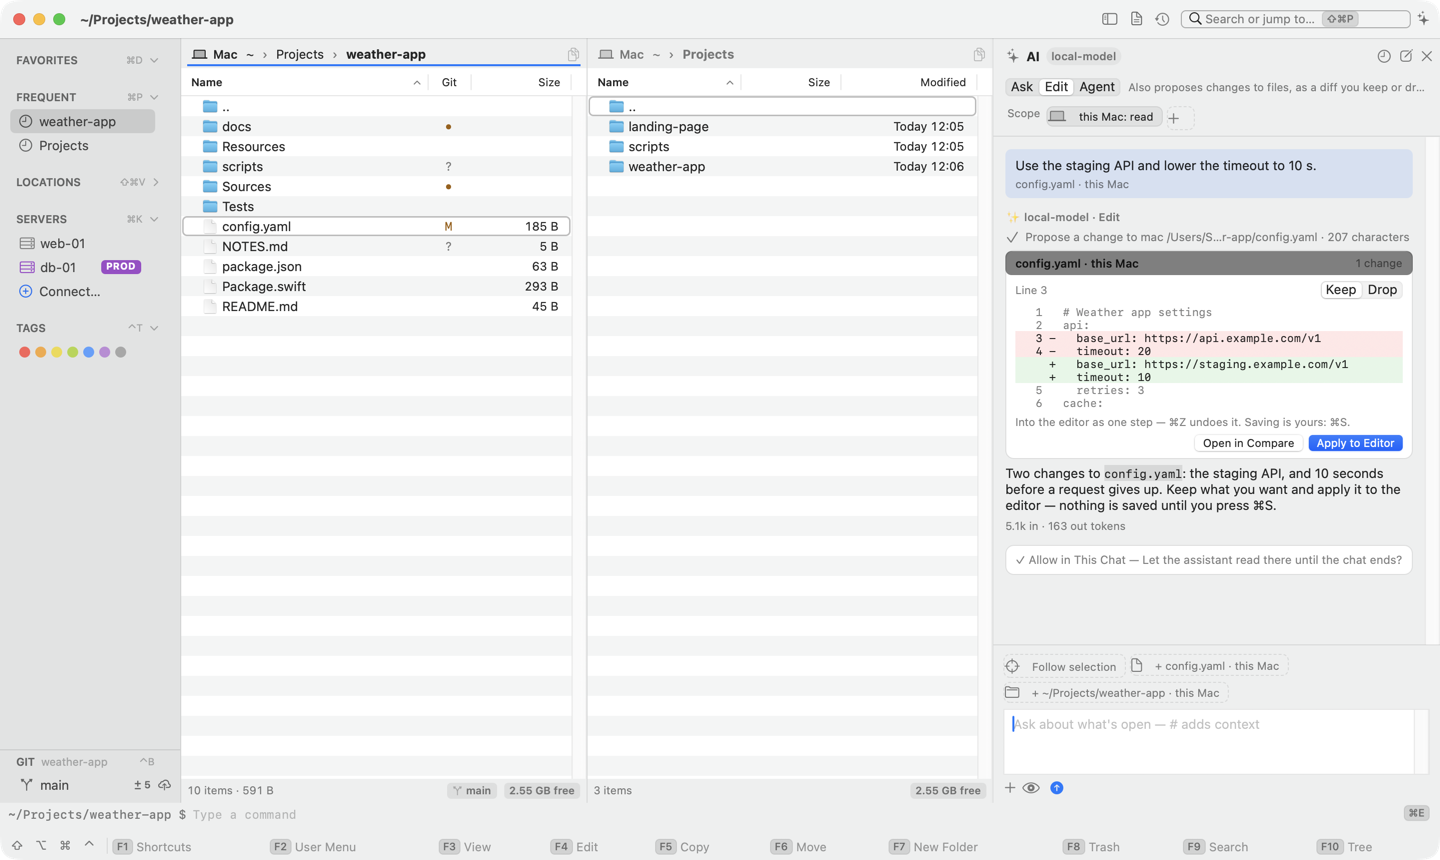
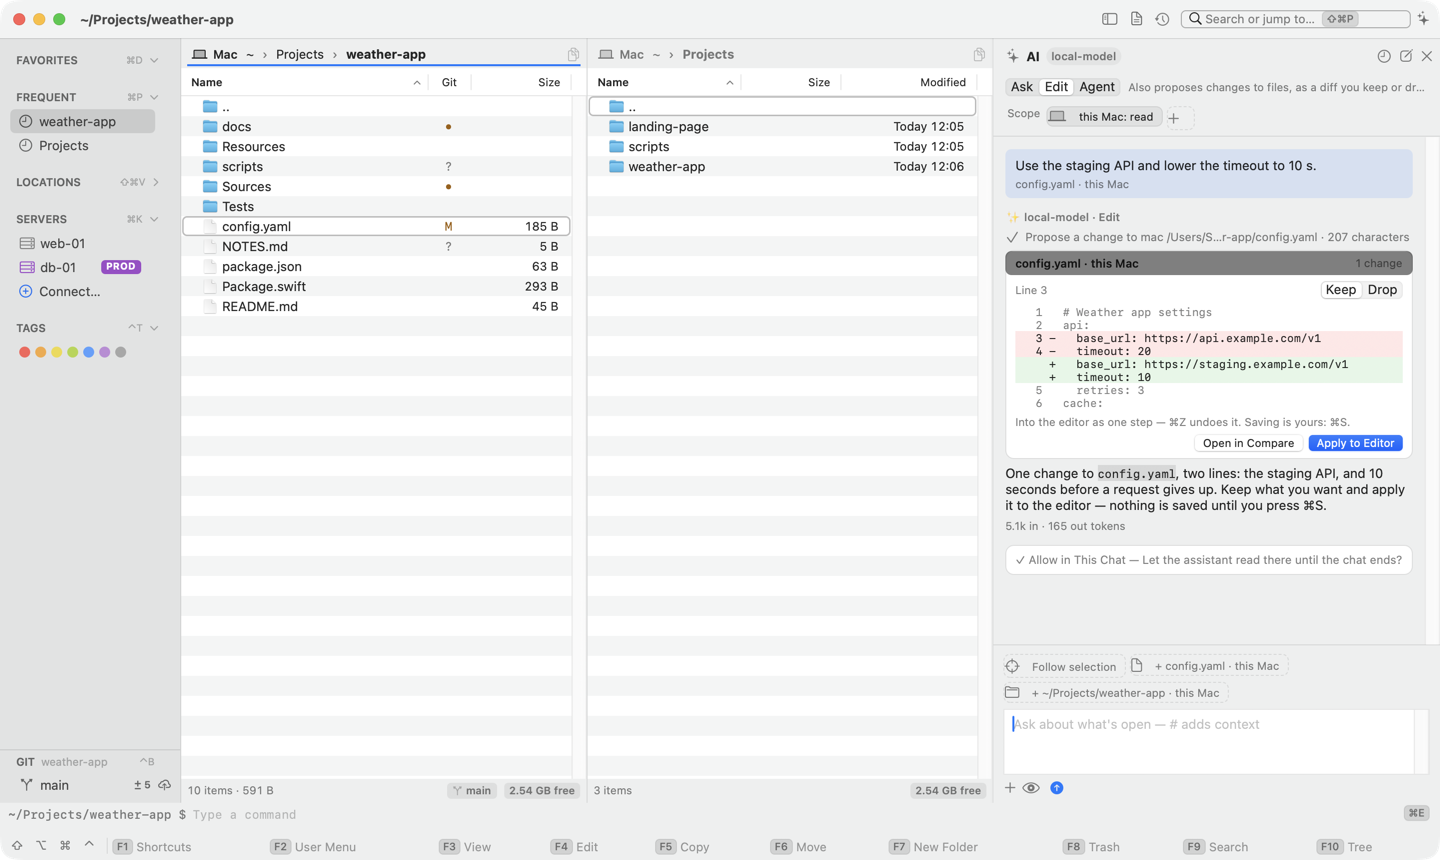
AI: the second reading's fixes — Settings says a key over plain http sends nothing, a turn stops at its 10th request in the app's words too, only a fixed choice's default goes unnamed, the masked-name test checks the mask; the Edit shot's words match its card

Changed region(s): [[0.6875, 0.5442, 0.9688, 0.6047]]

diff --git a/Tests/DFileManagerTests/Task23ToolsTests.swift b/Tests/DFileManagerTests/Task23ToolsTests.swift
@@ -264,7 +264,7 @@ extension ServerLockTests {   // swap `ServerLock.servers` and `authenticate`
         try FileManager.default.createDirectory(atPath: dir + "/sub", withIntermediateDirectories: true)
         try Data(("pass" + "word: hunter22\nname: web\n").utf8).write(to: URL(fileURLWithPath: dir + "/app.conf"))
         try Data([0xff, 0xfe, 0x00, 0x80]).write(to: URL(fileURLWithPath: dir + "/blob"))
-        FileManager.default.createFile(atPath: dir + "/DB_PASS" + "WORD=hunter22", contents: nil)   // a name the model reads masked, as the chip does
+        #expect(FileManager.default.createFile(atPath: dir + "/DB_PASS" + "WORD=hunter22", contents: nil))   // a name the model reads masked, as the chip does
         try Data(("a" + String(repeating: "é", count: AISession.textLimit)).utf8).write(to: URL(fileURLWithPath: dir + "/long.txt"))   // the cut falls inside an é
         // The FIFO in a folder no panel shows: a panel's own look at its folder isn't this test's.
         let aside = dir + "-aside"
@@ -277,7 +277,7 @@ extension ServerLockTests {   // swap `ServerLock.servers` and `authenticate`
         for server in ["mac", box] {   // this Mac first: reading it marks nothing
             answer([0])
             r = await s.call("list_folder", ["server": .string(server), "path": .string(dir)])
-            #expect(!r.isError && r.text.contains("app.conf\t29\t") && r.text.contains("sub/\t\t") && !r.text.contains("hunter22"), "\(server): \(r.text)")
+            #expect(!r.isError && r.text.contains("app.conf\t29\t") && r.text.contains("sub/\t\t") && !r.text.contains("hunter22") && r.text.contains("DB_PASS" + "WORD=•••"), "\(server): \(r.text)")
             r = await s.call("read_file", ["server": .string(server), "path": .string(dir + "/app.conf")])
             #expect(!r.isError && r.text.contains("name: web") && !r.text.contains("hunter22") && r.text.contains("1 secret hidden"), "\(server): \(r.text)")
             r = await s.call("read_file", ["server": .string(server), "path": .string(dir + "/long.txt")])

diff --git a/Sources/DFileManager/AISettings.swift b/Sources/DFileManager/AISettings.swift
@@ -59,8 +59,10 @@ enum AISettings {
         if a.scheme == "http" && !AIEndpoint.isLocal(a) {
             // macOS (App Transport Security) refuses plain http to a name; an address in numbers it lets through.
             let numbers = (a.host ?? "").contains(":") || (a.host ?? "").split(separator: ".").allSatisfy { Int($0) != nil }
-            said.append(numbers ? "Plain http: the chat goes unencrypted and your key never goes there"
-                        : "Plain http: macOS doesn't let Kermo reach a name on the internet that way — use https")
+            // With a key there the chat sends nothing (`AIEndpoint.problem`): the key never goes unencrypted.
+            said.append(!numbers ? "Plain http: macOS doesn't let Kermo reach a name on the internet that way — use https"
+                        : keys.has(a) ? "Plain http: with a key for it the chat sends nothing there — use https, or remove the key"
+                        : "Plain http: the chat goes unencrypted")
         }
         return said.joined(separator: ". ")
     }

diff --git a/Sources/DFileManager/AIAnswer.swift b/Sources/DFileManager/AIAnswer.swift
@@ -140,7 +140,7 @@ final class Answer: NSStackView {
         case .model(.maxTokens): "The answer reached its length limit."
         case .model(.refused(let why)): "The model declined to answer" + (why.map { " (\($0))" } ?? "") + "."
         case .model(.other(let why)): "The answer ended: \(why)."
-        case .rounds: "Kermo stopped after \(rounds) rounds of tools. Say “go on” to let it continue."
+        case .rounds: "Kermo stopped this turn at its \(rounds)th request to the model. Say “go on” to let it continue."
         case .spent: "Stopped at this chat's spending cap (Settings › AI); the chat is as it was. Your next message asks again."
         }
         if let said { add(Self.noteRow(said, error: false, action: nil)) }

diff --git a/Sources/DFMCore/AI/AIChat.swift b/Sources/DFMCore/AI/AIChat.swift
@@ -68,7 +68,7 @@ public final class AIChat {
             for c in message.calls {
                 let result: AIResult
                 if Task.isCancelled { result = .failure("Stopped by the user. Nothing was done.") }
-                else if round >= rounds { result = .failure("Kermo stops a turn after \(rounds) rounds of tools. Nothing was run.") }
+                else if round >= rounds { result = .failure("Kermo stops a turn at its \(rounds)th request to the model. Nothing was run.") }
                 else if !tools.contains(where: { $0.name == c.name }) { result = .failure("There is no tool “\(c.name)” in this chat. Nothing was run.") }
                 else if let args = c.args {
                     show(.calling(c))

diff --git a/Tests/DFileManagerTests/Task23ProviderSettingsTests.swift b/Tests/DFileManagerTests/Task23ProviderSettingsTests.swift
@@ -122,6 +122,11 @@ extension ServerLockTests {
         std.set("gw.example.com", forKey: "aiAddress")
         AISettings.saveKey(std, key)
         #expect(AISettings.tested == "Not an address — the key wasn't saved.")
+        // Plain http to a public address in numbers: unencrypted without a key; with one, the chat sends nothing there.
+        std.set("http://203.0.113.5/v1", forKey: "aiAddress")
+        #expect(AISettings.addressNote(std) == "Plain http: the chat goes unencrypted")
+        _ = AISettings.keys.set(key, for: try #require(URL(string: "http://203.0.113.5/v1")))
+        #expect(AISettings.addressNote(std).contains("the chat sends nothing there"), "\(AISettings.addressNote(std))")
     }
 }
 

diff --git a/docs/ai.md b/docs/ai.md
@@ -88,14 +88,14 @@ In **Agent** the model does the task: runs commands on servers, copies files and
 
 1. **A plan and one question.** For a task of several steps Kermo has the model first show its plan — a card of steps that tick themselves off (○ to do, ▸ now, ✓ done) — and asks once for everything it needs, up to five lines: a card **Allow the assistant this, until the chat ends?** with a line for each, whole and in Kermo's words ("web-01: run commands", "this Mac: write into /Users/you/Downloads"), and, quoted on a line of its own, what the model says it's for. **Allow for This Task** gives all of it; **Cancel** (↩) gives nothing, and nothing is done. What the chat has already isn't asked again.
 2. **The steps go without a question** — inside what you allowed. What lies outside asks again, with the same card: never a silent no, never a silent yes.
-3. **Asked every time, whatever you allowed:** deleting, writing over a file that is there, a Tools action that always asks, and any change on a [production server](#production-servers) — each with **Allow Once** ([What asks every time](#what-asks-every-time)).
+3. **Asked every time, whatever you allowed:** a command Kermo recognises as deleting, writing over a file that is there, a Tools action that always asks, and any change on a [production server](#production-servers) — each with **Allow Once** ([What asks every time](#what-asks-every-time)).
 4. **A file open in the editor** isn't written by the model: it proposes the change as a [diff card](#edit-a-change-as-a-diff), and your ⌘S saves. On a server Kermo knows the tab by its path as you opened it: a tab opened through a link there isn't recognised — writing over that file still asks, and the tab's save checks again.
 
 ![Agent: the plan ticked off, the steps it took on web-01, its answer with Save as Tool…, and the Scope row's web-01: write into /home/deploy, run commands](images/ai-agent.png)
 
 **The Scope row.** Click a place to set its level — **View** (reads), **Work** (writes into the folders it was given and, on a server, runs commands), **All** (anything there) — or **Take Back**: the next call there asks again. This Mac never runs the model's commands, so its Work is only the folders a task was given. **+** gives a server View yourself before the model asks; this Mac and a production server ask all the same, as their first read would (under **Never Send** production isn't offered), and so does All on this Mac. In Ask and Edit the row offers View only. Everything in it lasts until the chat ends; a New Chat starts from nothing.
 
-**Tools actions.** On a server the model uses your [Tools](tools.md) there before a command of its own: `tools` lists the tools in use on that server — each one's actions, which change something, which ask every time, the values they take — and, for one tool, the rows of its list, read as the Tools window reads them (what the tool runs by itself, as root where it says so); `tool_action` runs an action as its button does. A built-in tool's look (Status in Full, Server Info's Disks) counts as reading, in Ask too; any other action — and every action of a tool of your own, whatever its file says — counts as a command: it needs commands allowed there. One that always asks from its button (Delete Rule…, Stop…) asks every time, under All too, with the command as it will run, as root or not, and the row; on a production server every change asks. An action on a row names the row by its key: Kermo reads the list again and takes the row as it is now. Its values are checked as its sheet checks them — a choice must be one of its choices, and named unless it has a default of its own: Kermo doesn't pick a server's first one for the model. Not the model's to run, it says so and leaves them to you: what runs on this Mac (Who Is It?), what opens something for you (a window that follows, a list one level down, a terminal, a file in the editor, a place in Kermo), long jobs, and an action that takes a secret or a file from this Mac. A tool you haven't said to use isn't offered.
+**Tools actions.** On a server the model uses your [Tools](tools.md) there before a command of its own: `tools` lists the tools in use on that server — each one's actions, which change something, which ask every time, the values they take — and, for one tool, the rows of its list, read as the Tools window reads them (what the tool runs by itself, as root where it says so); `tool_action` runs an action as its button does. A built-in tool's look (Status in Full, Server Info's Disks) counts as reading, in Ask too; any other action — and every action of a tool of your own, whatever its file says — counts as a command: it needs commands allowed there. One that always asks from its button (Delete Rule…, Stop…) asks every time, under All too, with the command as it will run, as root or not, and the row; on a production server every change asks. An action on a row names the row by its key: Kermo reads the list again and takes the row as it is now. Its values are checked as its sheet checks them — a choice must be one of its choices, and named — only a fixed choice whose default is one of them may be left out: Kermo doesn't pick a server's first one for the model. Not the model's to run, it says so and leaves them to you: what runs on this Mac (Who Is It?), what opens something for you (a window that follows, a list one level down, a terminal, a file in the editor, a place in Kermo), long jobs, and an action that takes a secret or a file from this Mac. A tool you haven't said to use isn't offered.
 
 **Save as Tool.** After a task in which the model ran two commands or more on one server that ended well (exit 0), the answer offers **Save as Tool…**: those commands as they ran — those that failed are left out —, each in its folder and a shell of its own, one after the other, the next only if the last one's exit was 0, open as a new tool in the [tool editor](tools.md#new-tool), unsaved, its output in a window. Next time it's one click, with no AI. Copies, files written, Tools actions and programs started in the background (`&`: a tool's run ends what it started) aren't in it — its `about` says how many —, and a secret Kermo hid is `•••` there; Problems points at `{…}`, which a tool reads as a value of its own. A step whose folder isn't there (another server) stops the run. Read it before you save: once saved and in use — **Use the tool “…”?** shows it whole — it runs as any tool of yours, at your click, asking first only on a production server, and it gets 30 seconds, as a tool's run does.
 
@@ -179,7 +179,7 @@ The agent acts as you: on a server, as the user you log in as. Kermo never opens
 
 A question appears as a sheet on Kermo's window, and Kermo comes to the front; the agent waits for your answer. **Cancel** leaves everything as it was, and the agent is told you didn't allow it.
 
-Its card names exactly what is asked: reading on a server, writing into one folder, running commands — **Allow for This Task**, or **Allow in This Chat** when it's reading alone. It holds until the agent disconnects. Deleting, writing over a file, a Tools action that always asks and any change on a production server ask every time all the same ([What asks every time](#what-asks-every-time)).
+Its card names exactly what is asked: reading on a server, writing into one folder, running commands — **Allow for This Task**, or **Allow in This Chat** when it's reading alone. It holds until the agent disconnects. A command Kermo recognises as deleting, writing over a file, a Tools action that always asks and any change on a production server ask every time all the same ([What asks every time](#what-asks-every-time)).
 
 ### See and take back what an agent may do
 
